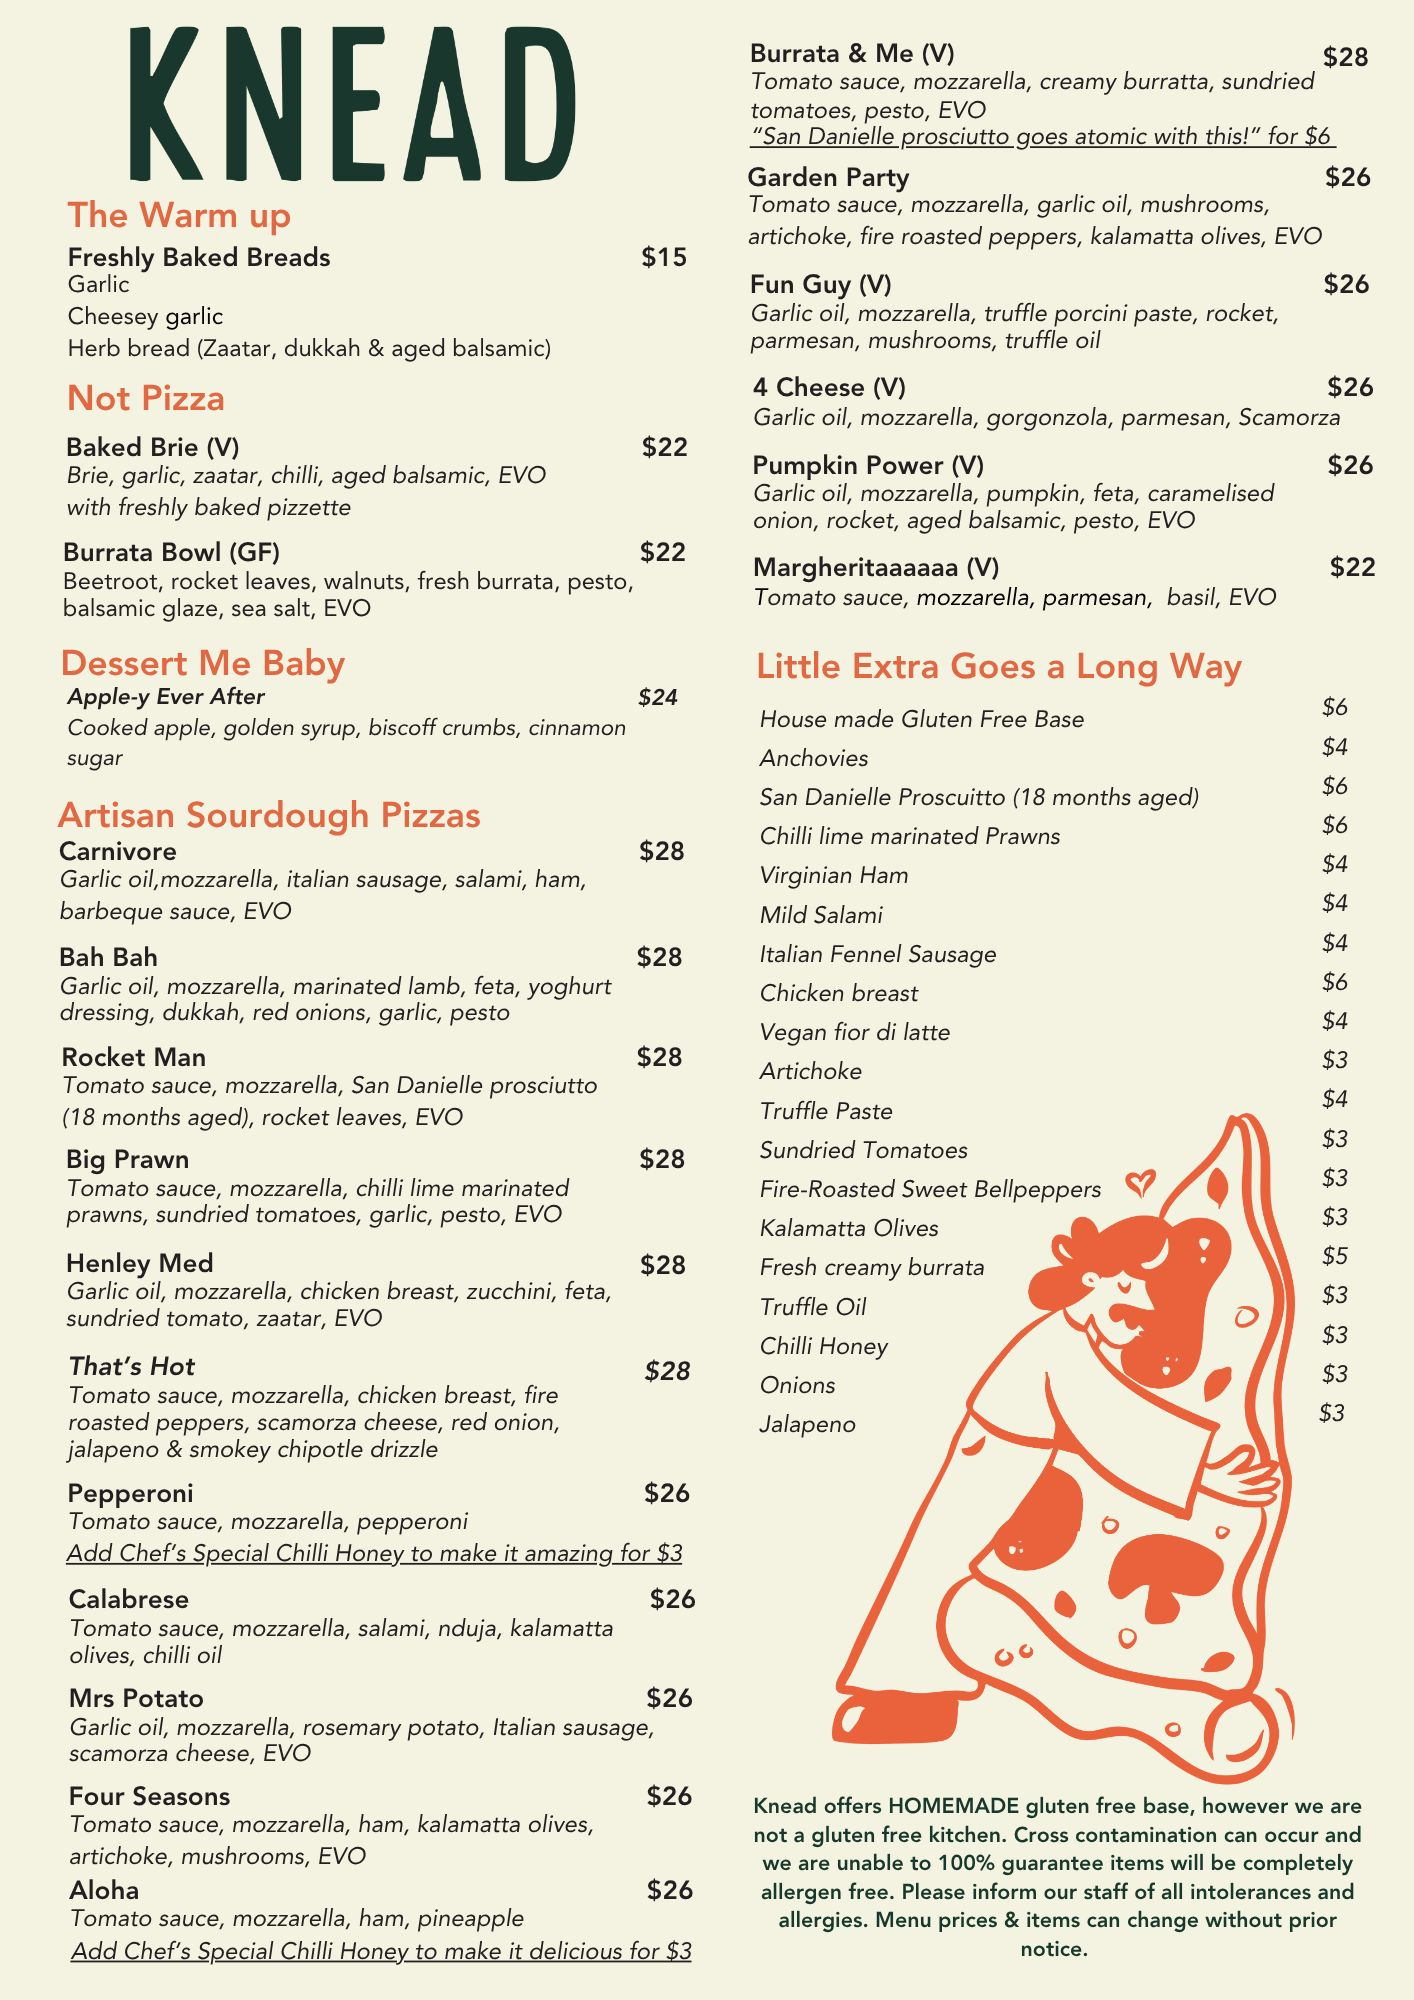
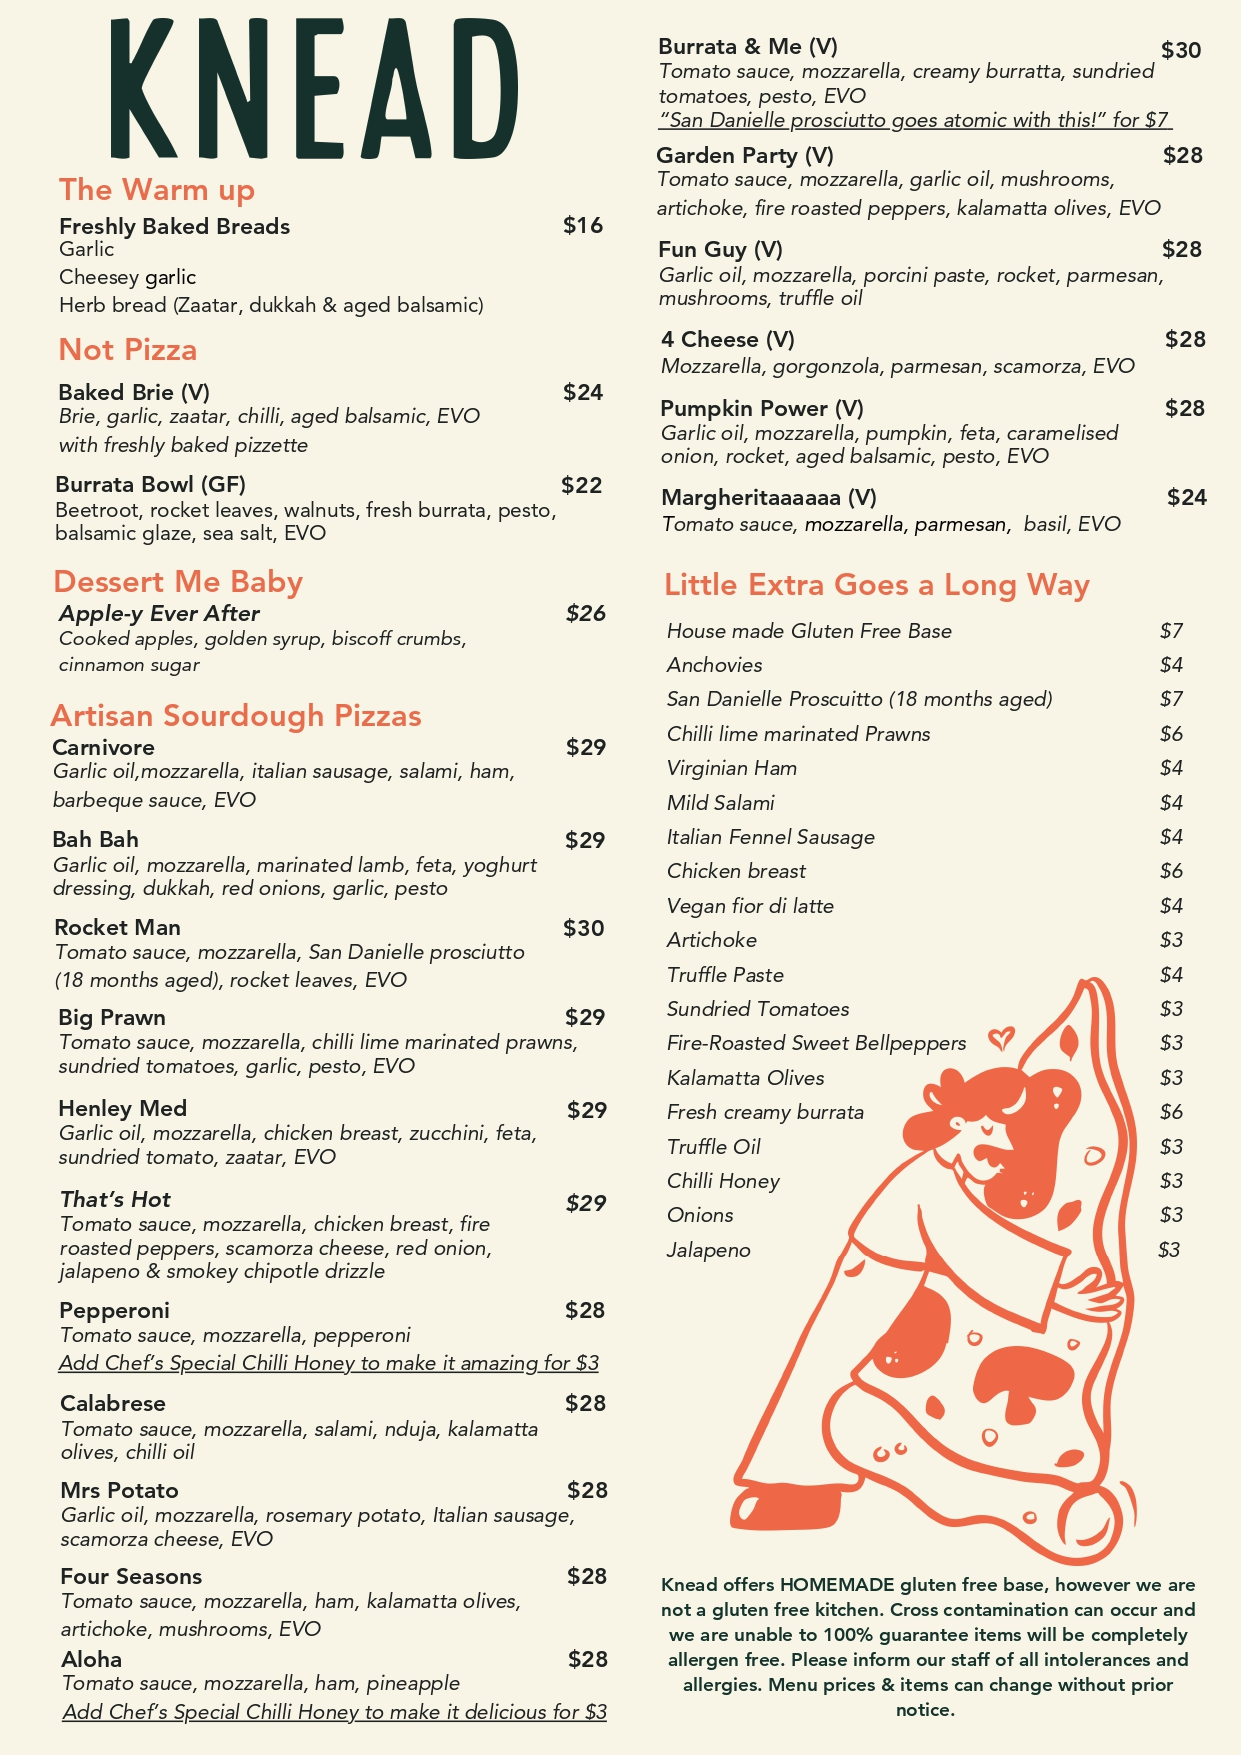
....

diff --git a/src/components/FAQSection.jsx b/src/components/FAQSection.jsx
@@ -33,16 +33,12 @@ const FAQSection = () => {
                                 <p className="text-[#E25439] font-bold text-lg">Open 7 Days a week</p>
                                 <div className="space-y-4">
                                     <div className="flex justify-between items-center pb-4 border-b border-[#1E3227]/5">
-                                        <span className="font-bold text-[#1E3227]/60 uppercase text-sm tracking-widest">Mon - Thu</span>
-                                        <span className="font-black text-[#1E3227]">16:00 – 21:00</span>
-                                    </div>
-                                    <div className="flex justify-between items-center pb-4 border-b border-[#1E3227]/5">
-                                        <span className="font-bold text-[#1E3227]/60 uppercase text-sm tracking-widest">Friday</span>
-                                        <span className="font-black text-[#1E3227]">16:00 – 21:30</span>
+                                        <span className="font-bold text-[#1E3227]/60 uppercase text-sm tracking-widest">Sun - Thu</span>
+                                        <span className="font-black text-[#1E3227]">17:00 – 20:30</span>
                                     </div>
                                     <div className="flex justify-between items-center">
-                                        <span className="font-bold text-[#1E3227]/60 uppercase text-sm tracking-widest">Sat - Sun</span>
-                                        <span className="font-black text-[#1E3227]">12:00 – 21:30</span>
+                                        <span className="font-bold text-[#1E3227]/60 uppercase text-sm tracking-widest">Fri - Sat</span>
+                                        <span className="font-black text-[#1E3227]">17:00 – 21:00</span>
                                     </div>
                                 </div>
                             </div>

diff --git a/src/app/contact/page.jsx b/src/app/contact/page.jsx
@@ -260,17 +260,12 @@ export default function ContactPage() {
                                 </div>
                                 <div className="space-y-2 opacity-70 font-bold uppercase text-sm tracking-wide">
                                     <div className="flex justify-between border-b border-[#1E3227]/10 pb-2">
-                                        <span>Mon - Fri</span>
-                                        <span>17:00 - 21:30</span>
+                                        <span>Sun - Thu</span>
+                                        <span>17:00 - 20:30</span>
                                     </div>
-                                    <div className="flex flex-col border-b border-[#1E3227]/10 pb-2 text-[#E25439]">
-                                        <div className="flex justify-between">
-                                            <span>Sat - Sun</span>
-                                            <span>12:00 - 15:00</span>
-                                        </div>
-                                        <div className="flex justify-end">
-                                            <span>17:00 - 21:30</span>
-                                        </div>
+                                    <div className="flex justify-between border-b border-[#1E3227]/10 pb-2 text-[#E25439]">
+                                        <span>Fri - Sat</span>
+                                        <span>17:00 - 21:00</span>
                                     </div>
                                 </div>
                             </motion.div>

diff --git a/src/lib/utils.js b/src/lib/utils.js
@@ -168,13 +168,15 @@ export function isBusinessOpen() {
   const now = new Date();
   const day = now.getDay(); // 0 = Sunday, 6 = Saturday
   const hour = now.getHours();
+  const minutes = now.getMinutes();
+  const timeInMinutes = hour * 60 + minutes;
 
-  // Example hours: Mon-Sun 11am - 10pm
-  // Customize based on your business hours
-  const openHour = 11;
-  const closeHour = 22;
-
-  return hour >= openHour && hour < closeHour;
+  // Sunday (0) to Thursday (4): 17:00 - 20:30
+  if (day >= 0 && day <= 4) {
+    return timeInMinutes >= 17 * 60 && timeInMinutes < (20 * 60 + 30);
+  }
+  // Friday (5) to Saturday (6): 17:00 - 21:00
+  return timeInMinutes >= 17 * 60 && timeInMinutes < 21 * 60;
 }
 
 /**
@@ -182,8 +184,7 @@ export function isBusinessOpen() {
  * @returns {string} Business hours
  */
 export function getBusinessHours() {
-  // Customize based on your business hours
-  return "Mon-Sun: 11:00 AM - 10:00 PM";
+  return "Sun-Thu: 5:00 PM - 8:30 PM, Fri-Sat: 5:00 PM - 9:00 PM";
 }
 
 /**
